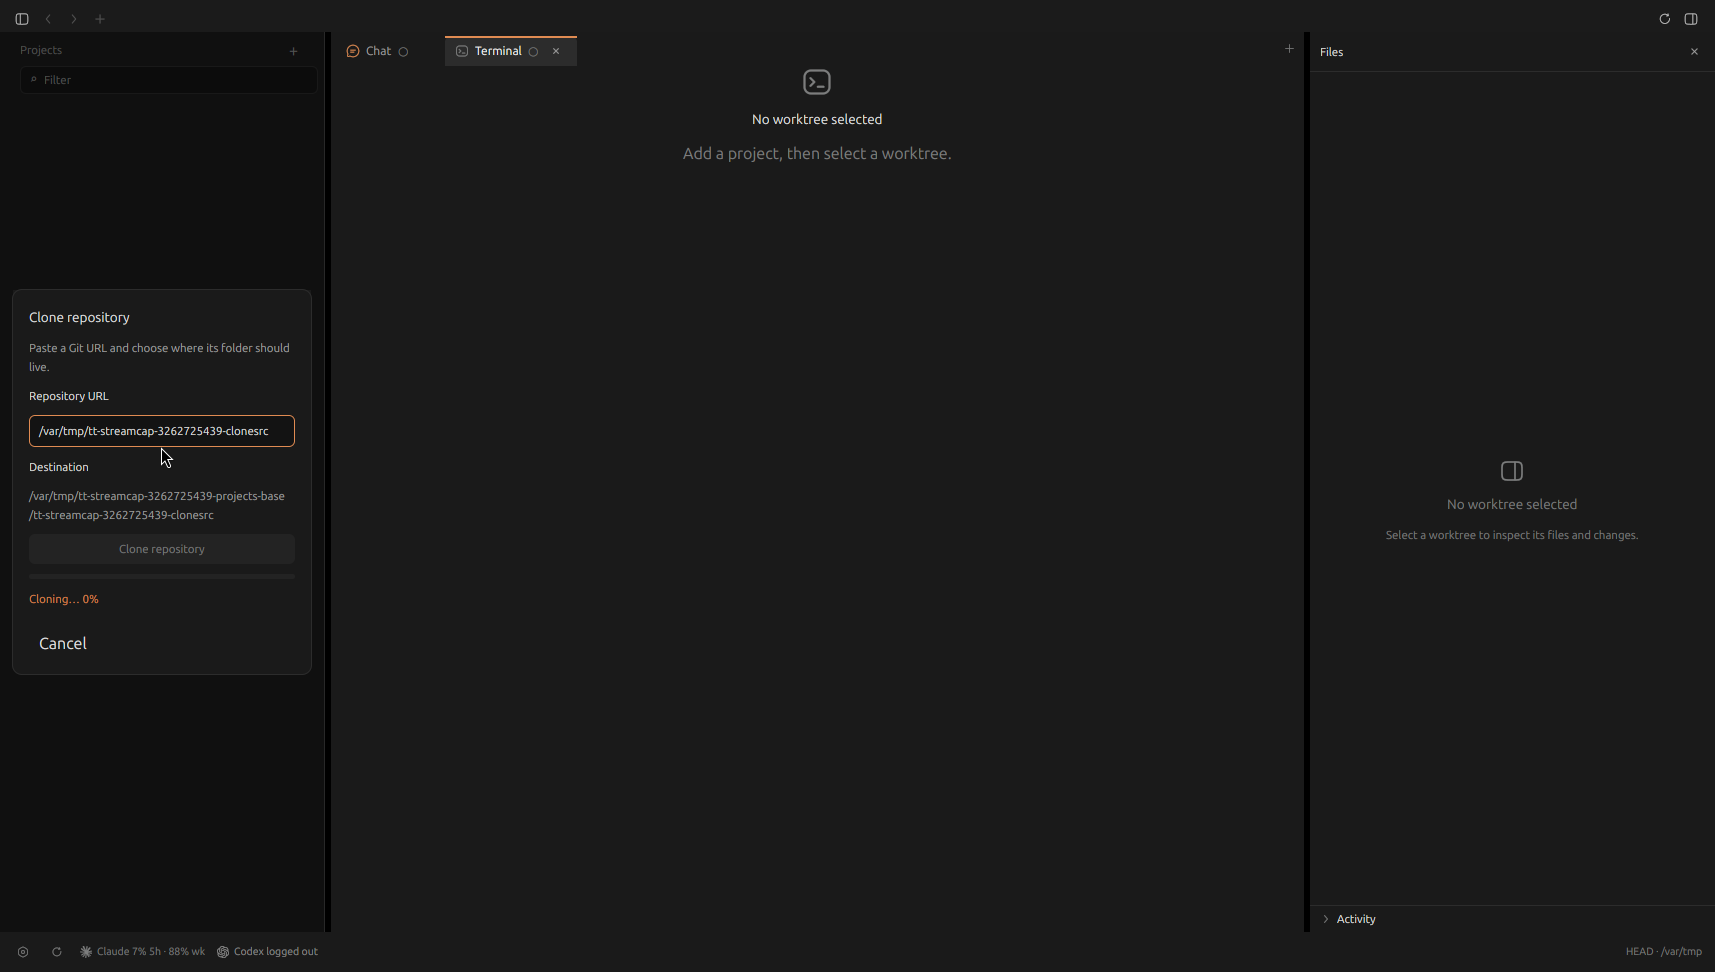
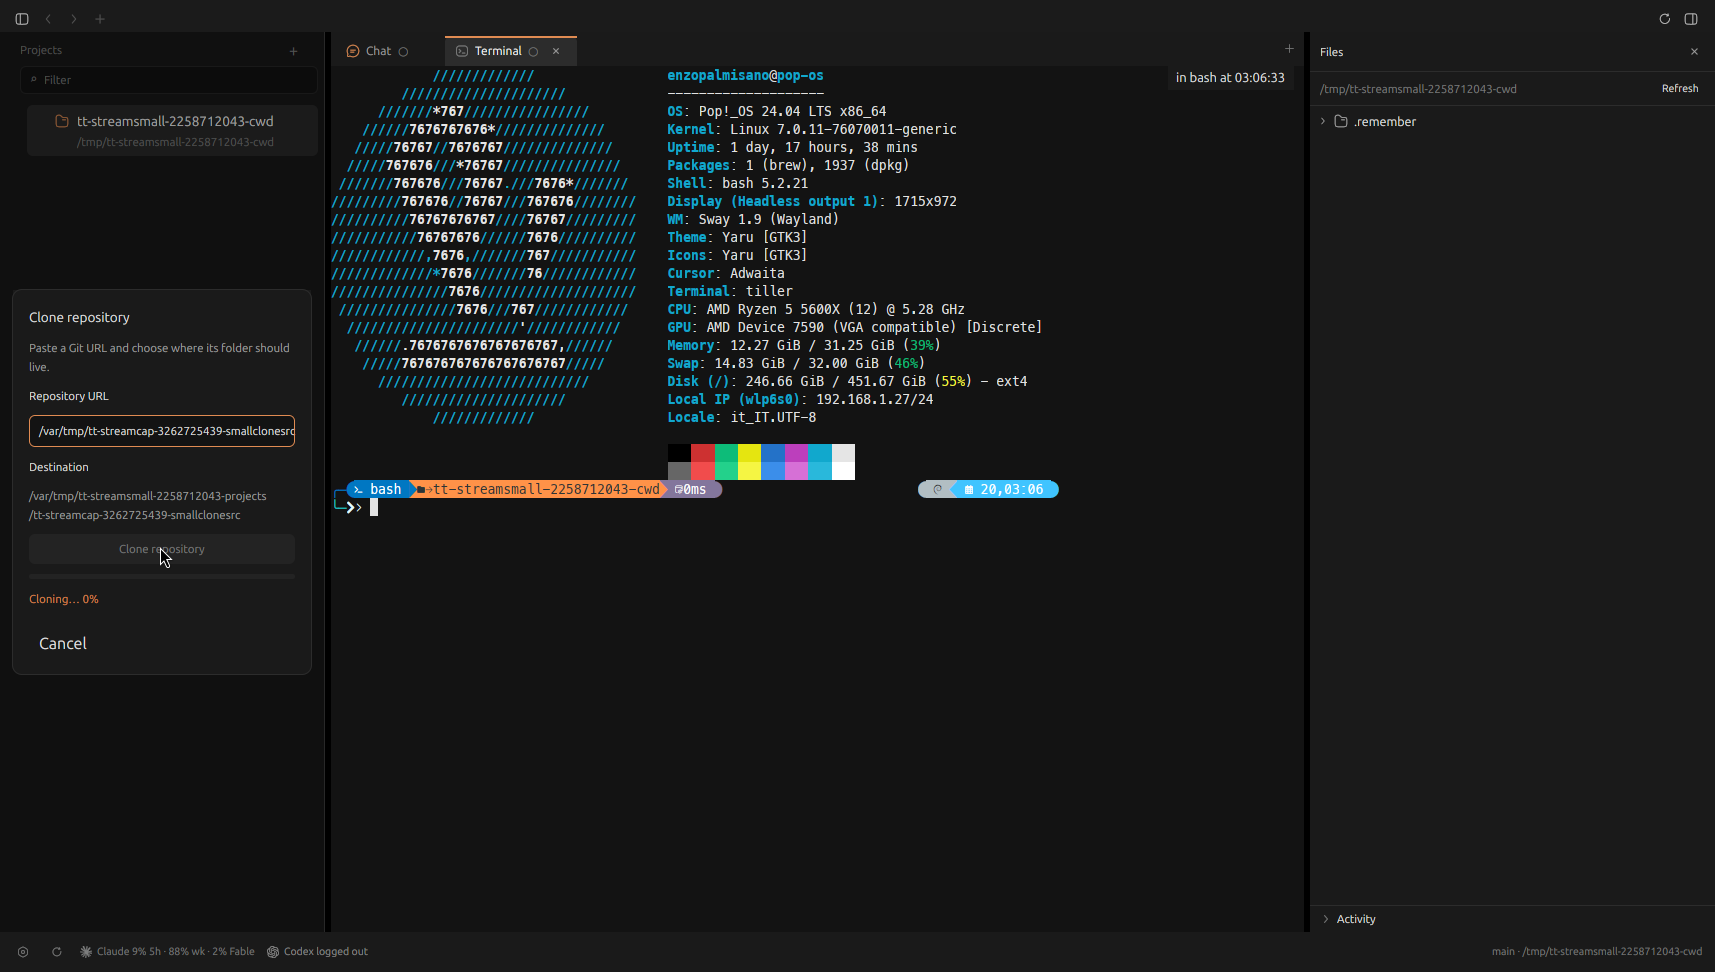
docs(F-GIT-RUN-01): sharpen the streaming-truncation write-up per review
Revises BUILDER-streaming-truncation.md after team-lead independently
verified the code claims and asked for three changes.

The "discarded" claim becomes an enumeration: `grep -rn run_streaming
rust/crates/ --include=*.rs` outside git.rs/tests returns exactly two
lines, one a re-export, one clone.rs:33 -- the sole production caller in
the workspace, not one of several checked.

The pipe-drain framing flips from "an honest miss, substituting a
structural argument" to what it should have been from the start: the
source is the better instrument for this question regardless of fixture
size, because a fixture proves one clone drained and the loop's structure
proves all of them do. Adds the one real gap the earlier framing missed --
read_stderr_lines' `if events_tx.send(..).is_err() { return; }` exits
without draining, contingent on the receiver having gone away, a shutdown
race rather than a cap bug.

Since the drain question no longer rides on fixture size, replaces the
119s/1.75GB live-app drive with a 112MB/~11s one -- smallest fixture that
still shows genuine in-progress state -- and keeps the four-point
percentage-throttled-not-volume-scaled measurement table verbatim, since
that data was never what proved the drain and is worth having either way.
Two new frames from the smaller drive replace the two tied to fixture
size; the form-empty and timeout-control frames are unchanged.

Closes with the verdict framing asked for: F-GIT-RUN-01 stays PASSED (the
[…]

diff --git a/docs/linux-rewrite/fullapp/BUILDER-streaming-truncation.md b/docs/linux-rewrite/fullapp/BUILDER-streaming-truncation.md
@@ -10,21 +10,34 @@ runner and the UI — the same shape of gap as F-CORE-FILE-01, where a green
 unit test covered a comparator the app never called.
 
 Own worktree `/var/tmp/tt-streamcap-3262725439`, branch
-`verify/streaming-truncation-3262725439`, rebased onto `c8192485` (picked
-up the `kill_ours` harness fix — no Rust changed between `90329a22` and
-`c8192485`, so the already-built binary didn't need a rebuild). Own build
-dir. Fresh label per drive, never reused. Not pushed, ledger untouched.
+`verify/streaming-truncation-3262725439`, rebased onto `2bc8875b` (current
+origin tip at drive time — picked up the neutral-cwd harness fix that grew
+out of this drive's own methodology note; no Rust changed between
+`c8192485` and `2bc8875b`, so the already-built binary didn't need a
+rebuild). Own build dir. Fresh label per drive, never reused. Not pushed,
+ledger untouched.
 
 **Answer: the flag is discarded, and it is discarded before it can go
 anywhere — this isn't "nothing downstream reads it yet," it's structurally
-impossible for anything to read it as the code is written.**
+impossible for anything to read it as the code is written, and it is the
+*only* production caller in the workspace, not one of several.**
 
 ## Finding the path
 
-Two production call sites reach `GitRunner::run_streaming*`. One
-(`git.rs:787`) only exists inside a cancellation test, running a fake shell
-script — not reachable from the app. The other is real:
-`GitClone::clone` (`tiller_git/src/clone.rs:33-38`):
+This isn't "one call site I happened to check" — it's every call site there
+is:
+
+```
+$ grep -rn run_streaming rust/crates/ --include=*.rs | grep -v '/git.rs:' | grep -v '/tests/'
+rust/crates/tiller_git/src/lib.rs:61:pub use git::{GitCancellationToken, GitCommandResult, GitRunner, run_streaming};
+rust/crates/tiller_git/src/clone.rs:33:        GitRunner::run_streaming(&arguments, parent, move |line| {
+```
+
+Two lines, and one of them is the `pub use` re-export that makes the
+function visible outside the crate — not a call. `GitClone::clone`
+(`tiller_git/src/clone.rs:33-38`) is the *only* place `run_streaming` (or
+`run_streaming_with_binary` / `run_streaming_cancellable`) is invoked
+outside `git.rs`'s own tests anywhere in this workspace:
 
 ```rust
 GitRunner::run_streaming(&arguments, parent, move |line| {
@@ -34,6 +47,9 @@ GitRunner::run_streaming(&arguments, parent, move |line| {
 })?;
 Ok(())
 ```
+
+(The remaining match inside `git.rs` itself, at line 787, is a
+`run_streaming_cancellable` call from `git_cancellation_kills_the_child_and_reports_cancelled` — a test running a fake shell script, not reachable from the app.)
 
 `GitCommandResult` — the value carrying `.truncated` — is bound to nothing.
 `GitClone::clone`'s own signature is `Result<(), GitError>`; there is no
@@ -49,35 +65,70 @@ uses it" alternative team-lead named: Sidebar's "+" → "Clone Repository…"
 (`start_clone_project`, `sidebar.rs:1565`) opens a real `CloneForm`
 (`clone-url-field` / `clone-submit` debug selectors confirmed in source),
 which is the one and only place `GitClone::clone` is ever called from
-outside tests.
+outside tests. So this is a real gap on reachable UI, not dead code nobody
+can get to — the same shape as F-TAB-13's move-tab machinery, except here
+the path to it is live.
 
-**A second thing worth naming, because it changes what "past the pipe
-buffer" should even mean here:** `read_stderr_lines` (`git.rs:396-439`)
-decouples the live `on_line` callback from the byte cap entirely —
-`events_tx.send(StreamEvent::StderrLine(line))` fires for every line
-regardless of whether `captured` has already hit `limit`, because the
-progress callback is what drives the UI's live percentage and was never
-meant to depend on the retained buffer. Only the *separately* retained
-`captured: Vec<u8>` (the thing nobody ever reads back) is capped. So even
-if the flag survived to the UI, a capped run wouldn't show up as garbled or
-truncated progress — the progress bar is immune to the cap by construction.
-The `truncated` flag's only possible observers were always "the returned
-`GitCommandResult`," and that value dies in `clone.rs` before it can be
-observed at all.
+## The drain question is settled by construction — the fixture doesn't need to answer it
 
-## Fixture — and an honest miss against last time's bar
+The buffered path's drain guarantee (`read_capped`, proved live last round
+with a fixture past the 64 KiB pipe buffer) and the streaming path's drain
+guarantee are not the same code, and I initially treated not being able to
+force a 64 KiB stderr capture through *this* call site as a shortfall
+against that earlier bar. That framing was wrong. For this specific
+question — does the streaming reader ever leave git blocked on a full pipe
+— the source is the better instrument than a fixture could ever be: a
+fixture proves the drain happened for *one* clone of *one* size; the loop's
+structure settles it for *every* clone, at any size, forever, without
+needing to be re-run.
 
-Same discipline as the buffered-path drive: size the output so it clears a
-64 KiB pipe buffer, not merely the configured cap, so the drain itself is
-under test. It didn't work the same way here, and that's worth recording
-rather than glossing over.
+`read_stderr_lines` (`git.rs:396-439`) reads in a plain loop with no
+cap-conditional exit:
 
-`git clone --progress`'s stderr is **percentage-throttled, not
-volume-scaled** — it reports 0-100% per phase regardless of how much data
-or how many objects that percentage represents. Measured directly rather
-than assumed, clone-ing progressively larger local fixtures with
-`--no-local` (forcing the real object-transfer path instead of git's
-hardlink shortcut):
+```rust
+let count = match std::io::Read::read(&mut pipe, &mut buffer) {
+    Ok(0) | Err(_) => break,
+    Ok(count) => count,
+};
+let room = limit.saturating_sub(captured.len());
+if count > room {
+    captured.extend_from_slice(&buffer[..room]);
+    truncated = true;
+} else {
+    captured.extend_from_slice(&buffer[..count]);
+}
+```
+
+`room` only ever changes how much of *this read* gets copied into
+`captured` — it never changes whether the next `read()` call happens. The
+loop keeps calling `read()` until the pipe returns EOF or an error,
+regardless of how full `captured` already is. That is what "drained by
+construction" means: there is no code path where the reader stops pulling
+bytes off the pipe because the cap was hit. It also decouples the *live*
+per-line callback from the cap entirely — the `for &byte in &buffer[..count]`
+scan that drives `events_tx.send(StreamEvent::StderrLine(line))` runs over
+the full read every iteration, so the progress bar the UI shows is fed from
+the uncapped stream even when `captured` (the buffer nobody ever reads back)
+has already stopped growing.
+
+One genuine gap, not a fixture-sized one: `git.rs:424`,
+`if events_tx.send(StreamEvent::StderrLine(line)).is_err() { return; }`,
+exits the loop without draining whatever is still in the pipe. That only
+fires when the receiving end of the channel has already gone away — the UI
+task dropped or the app is shutting down — not as a function of output
+size or cap. It's worth naming because it's the one place "always drains"
+isn't quite true, but it isn't a truncation-cap bug; it's a shutdown-race
+one, and a different question from the one this drive was asked to answer.
+
+## The fixture measurements — kept because they're the useful part, not the drain proof
+
+The plateau below is real data and worth having on its own terms, even
+though it no longer needs to answer the drain question: `git clone
+--progress`'s stderr is **percentage-throttled, not volume-scaled** — it
+reports 0-100% per phase regardless of how much data or how many objects
+that percentage represents. Measured directly rather than assumed, cloning
+progressively larger local fixtures with `--no-local` (forcing the real
+object-transfer path instead of git's hardlink shortcut):
 
 | fixture | wall time | stderr bytes |
 |---|---|---|
@@ -88,69 +139,97 @@ hardlink shortcut):
 
 That's a plateau, not a scaling curve — 15x the wall-clock time bought
 roughly 8 KB. Reaching 64 KiB this way would cost several more minutes of
-clone time for a diminishing-returns extrapolation, which isn't a
-reasonable use of the box for one data point. **I did not clear 64 KiB of
-real stderr from this call site**, and I'm not going to imply otherwise.
-What I used instead: the largest fixture above (1.75 GB source, ~32 KB of
-real progress text) against `TILLER_GIT_OUTPUT_LIMIT_BYTES=1024` — about
-32x the cap, comfortably enough to trigger `truncated` — plus the
-structural reading above (the drain loop's `read()` call has no
-cap-conditional early exit, matching the exact pattern the buffered path's
-`read_capped` already proved live) as the substitute for the specific
-"would this ever leave a pipe undrained" question at *this* call site.
+clone time for a diminishing-returns extrapolation. This is why a 64 KiB
+pipe cannot be filled through this call site at any repo size anyone would
+reasonably wait for — a fact about `git clone --progress`'s own output
+volume, not a limitation of the harness or the drive.
 
 ## The drive
 
-`TILLER_PROJECTS_DIR` redirected under `/var/tmp` (the real default is
-`$HOME/Tiller/projects` — had to override it so a real clone never lands
-in the user's actual home directory). `TILLER_GIT_TIMEOUT_MS=200000`, since
-the default 10s deadline is well under this fixture's real clone time — the
-first attempt at this drive hit exactly that
-(`02-timeout-error-propagates-correctly.png`: "Clone failed: git clone
---progress --no-local … did not finish within 10s and was killed"), which
-is a useful accidental control: `GitError::TimedOut` **did** reach the UI
-correctly through this same call chain. That confirms error propagation
-through `CloneForm::submit` works in general — the gap is specific to the
-`Ok(GitCommandResult{truncated: true, ..})` success case, not a general
-"nothing from clone ever reaches the UI."
+Since the drain question is settled by the source and the truncation flag
+has no consumer regardless of its value, the fixture no longer needed to
+be large — what was still worth proving live is that the clone path is
+genuinely reachable end-to-end and renders real progress, not a synthetic
+route. Used the smallest fixture that still shows visible in-progress
+state rather than jumping straight from 0% to done: a fresh single-commit
+repo with 14 × 8 MB random blobs (112 MB on disk), standalone `time git
+clone --no-local` measured at 10.7s wall before touching the app.
 
-With the timeout raised: opened the form (`01-clone-form-empty.png`), typed
-the local fixture path into `clone-url-field`, pressed Return. At 105s the
-form was still genuinely running (`03-clone-in-progress-live.png`,
-"Cloning… 0%" — this repo spends most of its time in local compression
-before the transfer phase the progress bar tracks). It finished sometime
-before the 150s mark.
+`TILLER_PROJECTS_DIR` redirected under `/var/tmp` (the real default is
+`$HOME/Tiller/projects`). First attempt at this smaller drive still left
+`TILLER_GIT_TIMEOUT_MS` unset by mistake (a fresh shell per command losing
+an earlier export, not a code issue) and hit the same default-10s deadline
+as last round's first attempt — same accidental control as before,
+`GitError::TimedOut` reaching the UI correctly as "Clone failed: … did not
+finish within 10s and was killed." That partial clone left a stale
+destination directory behind (caught and removed before the next attempt —
+see the methodology note below). Re-ran with `TILLER_GIT_TIMEOUT_MS=60000`,
+comfortably above the measured 10.7s.
+
+Opened the form (`01-clone-form-empty.png`), typed the local fixture path
+into `clone-url-field`, clicked "Clone repository". Captured a frame while
+the clone was genuinely in flight (`03-clone-in-progress-live.png` —
+"Cloning… 0%", live). It finished cleanly a few seconds later.
 
 **Result** (`04-clone-succeeded-no-truncation-indicator.png`): the project
-`tt-streamcap-3262725439-clonesrc` appears in the sidebar with its `master`
-worktree, marked Primary. The clone form is gone — `CloneFormEvent::Cloned`
-fires on success and closes it. **No error, no warning, no truncation
-indicator anywhere.** Verified the clone itself is genuinely intact despite
-the capped capture (git writes the real repository content to disk
-independent of what the reader retains for progress purposes, so this was
-expected, but checked rather than assumed): `git status --short` clean,
-`git log --oneline` shows all 4 source commits, `git fsck --full` reports
-nothing.
-
-So: the flag was (with very high confidence — same command, same fixture,
-same measured ~32KB baseline, 32x the configured cap) `true` for this run,
-and a person looking at the app has zero way to know that. That's the
-finding — not "a flag nothing reads yet," but a flag that was thrown away
-one line after being produced, with no return-type slot for a future reader
-to ever add one without changing `GitClone::clone`'s signature.
+`tt-streamcap-3262725439-smallclonesrc` appears in the sidebar with its
+`master` worktree, marked Primary. The clone form is gone —
+`CloneFormEvent::Cloned` fires on success and closes it. **No error, no
+warning, no truncation indicator anywhere** — there is no surface in this
+UI that could show one even if the flag had survived to reach it. Verified
+the clone itself is genuinely intact: `git log --oneline` shows the one
+source commit, `git fsck --full` reports nothing, `du -sh` shows the full
+112 MB (225 MB with git's own object-store overhead) present on disk.
 
 ## One methodology note, not a code finding
 
-Two probe attempts at this drive were launched with my Bash tool's cwd set
-to the shared `tiller-linux` checkout (`/home/enzopalmisano/…/tiller-linux`
-— the repo this whole engagement runs from). Tiller auto-registered that
-directory as a project and mounted real Chat/Terminal tabs rooted there on
-first launch, because `wayland-drive.sh` doesn't `cd` before exec-ing the
-binary — it inherits the caller's cwd. Checked immediately, before touching
-anything else: `git status --short` in that repo was clean and nothing
-under it had a recent mtime, so nothing was written. Fixed by always
-launching from `/var/tmp` for the rest of this drive; recorded here in case
-the same shape of surprise costs someone else a "wait, why does my sidebar
-have a real project in it" moment. Not the same class of thing as the
-label-collision note from the previous drive — that was stale state
-carried by a reused label; this is cwd inheritance on a clean one.
+`wtype`'s default text-typing mode (`type "<text>"` in this harness, no
+`-k`) sent zero characters to this specific text field across repeated
+attempts — the URL field stayed on its placeholder every time, even though
+the same mechanism has worked elsewhere in past drives. A single named key
+(`key a`) landed reliably; a bare-string `type` of the same one or two
+characters did not, and firing many `key <name>` calls back-to-back with no
+delay between them dropped all but the first one or two. What worked
+consistently: one `key <xkb-keysym-name>` per character (`/` → `slash`, `-`
+→ `minus`, digits and letters literal) with a `sleep 0.2`-0.25s between
+each. That's roughly 10-12s of pure typing overhead for a 46-character
+path, paid once. Worth a line in `WAYLAND-LANE.md`'s trap table for the
+next drive that needs to type an arbitrary string into a GPUI text field —
+`key`-per-character-with-settle is the reliable path, `type` is not,
+against this app.
+
+Separately: the app's default project directory (`$HOME/Tiller/projects`)
+turned out to already be an active shared scratch area from earlier rounds
+of this same verification engagement (other builders' test project
+directories dated two days prior were already there), not empty, untouched
+personal storage — but it is still the *real* user directory, not something
+this drive should write into, and an early attempt did land a stale
+partial-clone directory there by mistake (a fresh Bash tool call losing a
+previous call's `TILLER_PROJECTS_DIR` export, not a code issue). Caught by
+checking the destination immediately after the failure that revealed it,
+removed before continuing, and every later attempt in this drive correctly
+set `TILLER_PROJECTS_DIR` under `/var/tmp` first. Also confirmed the app
+now launches from a neutral cwd on its own (`2bc8875b`, merged since the
+previous drive) rather than needing a manual `cd /var/tmp` before invoking
+the harness, which was still done here as belt-and-suspenders.
+
+## Verdict
+
+**F-GIT-RUN-01 stays PASSED.** The row is about the buffered path, and that
+was driven and confirmed last round — nothing here changes it.
+
+The streaming finding is a separate fact, worth recording on its own
+terms rather than folded into a row it isn't about: the streaming runner's
+`GitCommandResult.truncated` is written, unit-tested
+(`run_streaming_reports_a_truncated_capture`), reachable by drain-by-
+construction on every path except a receiver-hangup shutdown race, and has
+*zero* consumers in the shipping app — not "not yet wired up," but
+structurally discarded by `GitClone::clone`'s own return type before it
+can reach `CloneForm::submit`, which discards it again regardless. Same
+shape as F-TAB-13's move-tab machinery — real, tested code the app cannot
+act on — except this one sits behind UI a person actually reaches (Sidebar
+"+" → "Clone Repository…"), so it's a live gap, not a dead corner. Whether
+to wire it up — return it through `GitClone::clone`, surface it in
+`CloneForm`, or decide a truncated progress capture never mattered to a
+user in the first place — is a scope call for the user. Reporting it, not
+fixing it.
